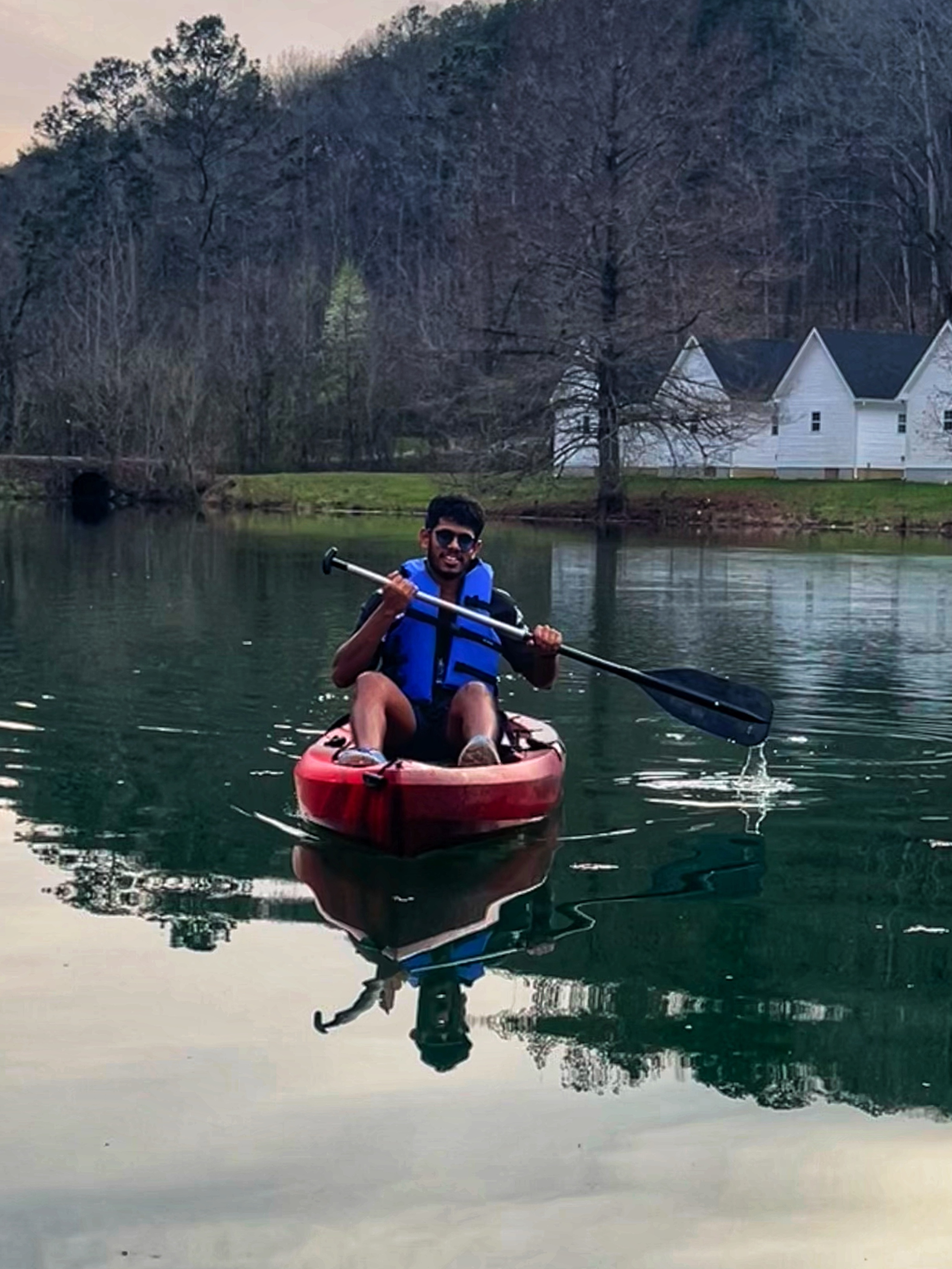
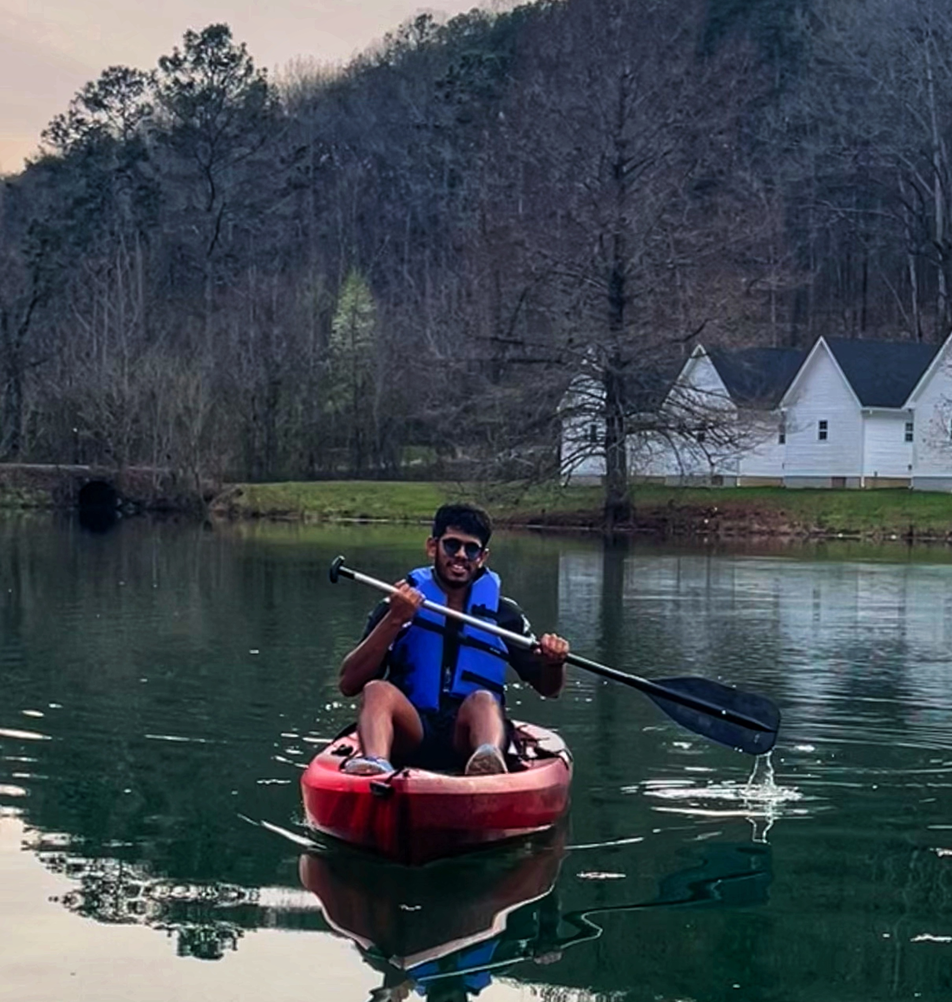
Made improvements

diff --git a/src/components/About/index.jsx b/src/components/About/index.jsx
@@ -19,23 +19,23 @@ const About = () => {
                 )}
             </div>
             <div className="flex flex-col md:flex-row justify-around items-center py-5">
-                <div className="mb-4 md:mb-0 md:w-1/2 px-10">
+                <div className="mb-4 md:mb-0 md:w-1/2 lg:w-2/5 px-10">
                     <img src={aboutPhoto} alt="About Me" className="w-full h-auto rounded-md shadow-lg" />
                 </div>
                 <div className="w-full md:w-1/2 text-left md:text-left px-4">
                     <Slide direction="right" triggerOnce>
                         <div className="md:border-l-2 border-black px-10">
-                            <p className="text-lg font-poppins">
+                            <p className="lg:text-xl md:text-[16px] font-poppins">
                                 I'm Nikhil, a dedicated Full Stack Web Developer and a Graduate Teaching Assistant
                                 at the University of Alabama in Huntsville. With a rich blend of academic rigor
                                 and practical expertise, I excel in bringing cutting-edge web solutions to life.
                             </p>
-                            <p className="mt-4 text-lg font-poppins">
+                            <p className="mt-4 lg:text-xl md:text-[16px] font-poppins">
                                 With over 5 years of internship experience as a Web Development and Java Intern,
                                 I've honed my skills in full-stack technologies, contributing to complex projects that
                                 enhance operational efficiencies and deliver compelling user experiences.
                             </p>
-                            <p className="mt-4 text-lg font-poppins">
+                            <p className="mt-4 lg:text-xl md:text-[16px] font-poppins">
                                 Beyond the digital realm, I'm passionate about continuously learning new technologies,
                                 and I cherish the vibrant worlds and narratives that anime offers. My free time often finds me
                                 amidst nature, paddling through serene waters or trekking along scenic trails, each experience

diff --git a/src/components/contact/Form.jsx b/src/components/contact/Form.jsx
@@ -2,9 +2,11 @@ import './contact.css';
 import { TextField } from '@mui/material';
 import { TextareaAutosize as BaseTextareaAutosize } from '@mui/base/TextareaAutosize';
 import { styled } from '@mui/system';
-import HireButton from '../Hero/HireButton';
+// import HireButton from '../Hero/HireButton';
 import { useState } from 'react';
 import { validate } from './FormValidation';
+import { ToastContainer, toast } from "react-toastify";
+import 'react-toastify/dist/ReactToastify.css';
 
 
 const grey = {
@@ -52,6 +54,8 @@ const TextareaAutosize = styled(BaseTextareaAutosize)(
         `,
 );
 const Form = () => {
+    const notify = () => toast("Thank you for reaching out!");
+
     const [formValues, setFormValues] = useState({
         name: '',
         email: '',
@@ -147,7 +151,19 @@ const Form = () => {
                         style={{ color: "#C7D0DD" }}
                     />
                     <div className='flex justify-center'>
-                        <HireButton title="Send" type="submit" />
+                        <button type="submit" onClick={notify} className="text-white bg-gradient-to-r from-purple-500 via-purple-600 to-purple-700 hover:bg-gradient-to-br focus:ring-4 focus:outline-none focus:ring-purple-300 dark:focus:ring-purple-800 shadow-lg shadow-purple-500/50 dark:shadow-lg dark:shadow-purple-800/80 font-medium rounded-lg text-sm px-5 py-2.5 text-center me-2 mb-2">Send</button>
+                        <ToastContainer
+                            position="top-right"
+                            autoClose={5000}
+                            hideProgressBar={false}
+                            newestOnTop={false}
+                            closeOnClick
+                            rtl={false}
+                            pauseOnFocusLoss
+                            draggable
+                            pauseOnHover
+                            theme="dark"
+                        />
                     </div>
                 </form>
             </div>

diff --git a/src/components/Hero/Hero.jsx b/src/components/Hero/Hero.jsx
@@ -3,12 +3,15 @@ import { useInView } from "react-intersection-observer";
 import { Fade } from "react-awesome-reveal";
 import TypedAnimatedComponent from '../Animation/TypedAnimation/index';
 import HeroImage from './HeroImage';
-import HireButton from './HireButton';
 
 const Hero = () => {
     const { ref, inView } = useInView({
         triggerOnce: true,
     });
+
+    const scrollToContent = () => {
+        document.getElementById("contact").scrollIntoView({ behavior: "smooth" });
+    }
     return (
         <div id="hero" className="flex flex-col h-[95vh] font-poppins text-white md:flex-row justify-center items-center md:space-x-8 w-full">
             <div className="flex flex-1 justify-center items-center mb-0 md:mb-0">
@@ -27,8 +30,14 @@ const Hero = () => {
                     </div>
                     <TypedAnimatedComponent />
                 </div>
-                <div className="w-full flex justify-center mt-0 md:mt-0">
-                    <HireButton title="Hire Me" type="button" />
+                <div className="w-full flex justify-center md:justify-start md:w-1/2 mt-0 md:mt-0">
+                    <button
+                        type="button"
+                        className="text-white bg-gradient-to-r from-purple-500 via-purple-600 to-purple-700 hover:bg-gradient-to-br focus:ring-4 focus:outline-none focus:ring-purple-300 dark:focus:ring-purple-800 shadow-lg shadow-purple-500/50 dark:shadow-lg dark:shadow-purple-800/80 font-medium rounded-lg text-sm px-5 py-2.5 text-center me-2 mb-2"
+                        onClick={scrollToContent}
+                    >
+                        Hire Me
+                    </button>
                 </div>
             </div>
         </div>

diff --git a/src/components/contact/index.jsx b/src/components/contact/index.jsx
@@ -2,6 +2,8 @@ import Form from "./Form"
 import { useInView } from "react-intersection-observer";
 import { Fade } from "react-awesome-reveal";
 
+
+
 const Contact = () => {
     const { ref, inView } = useInView({
         triggerOnce: true,
